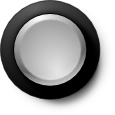
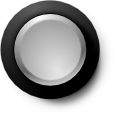
More graphical improvements

diff --git a/src/ctl_knob.cpp b/src/ctl_knob.cpp
@@ -122,9 +122,9 @@ calf_knob_expose (GtkWidget *widget, GdkEventExpose *event)
     float pos2 = (rad - margins[self->knob_size]) / rad;
     float pos3 = (rad - margins[self->knob_size] - widths[self->knob_size] / 2.) / rad;
     cairo_pattern_t *pat = cairo_pattern_create_radial(ox + rad, oy + rad, 0, ox + rad, oy + rad, rad);
-    cairo_pattern_add_color_stop_rgba(pat, pos1, 0, 0.8, 1, 0.4);
+    cairo_pattern_add_color_stop_rgba(pat, pos1, 0, 0.8, 1, 0.6);
     cairo_pattern_add_color_stop_rgba(pat, pos2, 0,   1, 1, 1.);
-    cairo_pattern_add_color_stop_rgba(pat, pos3, 0, 0.8, 1, 0.4);
+    cairo_pattern_add_color_stop_rgba(pat, pos3, 0, 0.8, 1, 0.6);
     cairo_set_source(ctx, pat);
     if (neg_l)
         cairo_arc_negative (ctx, ox + rad, oy + rad, rad - margins[self->knob_size], start * (M_PI / 180.), phase * (M_PI / 180.));
